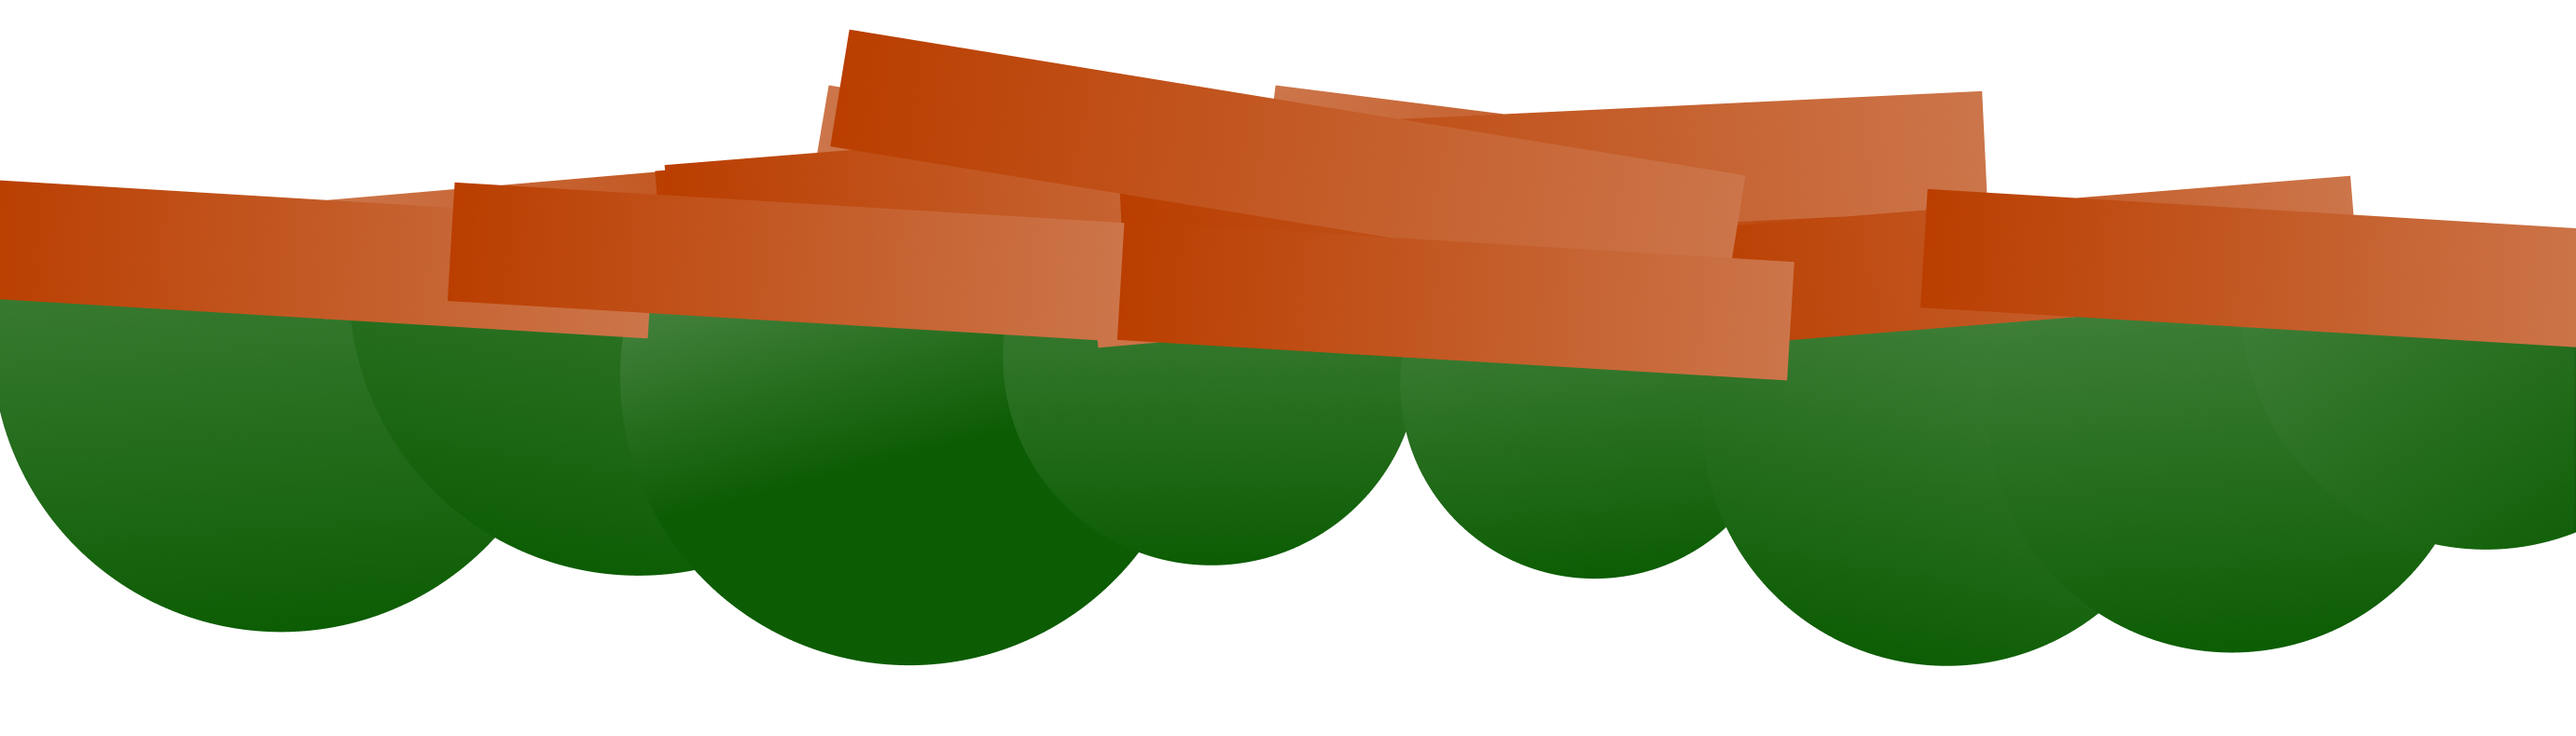
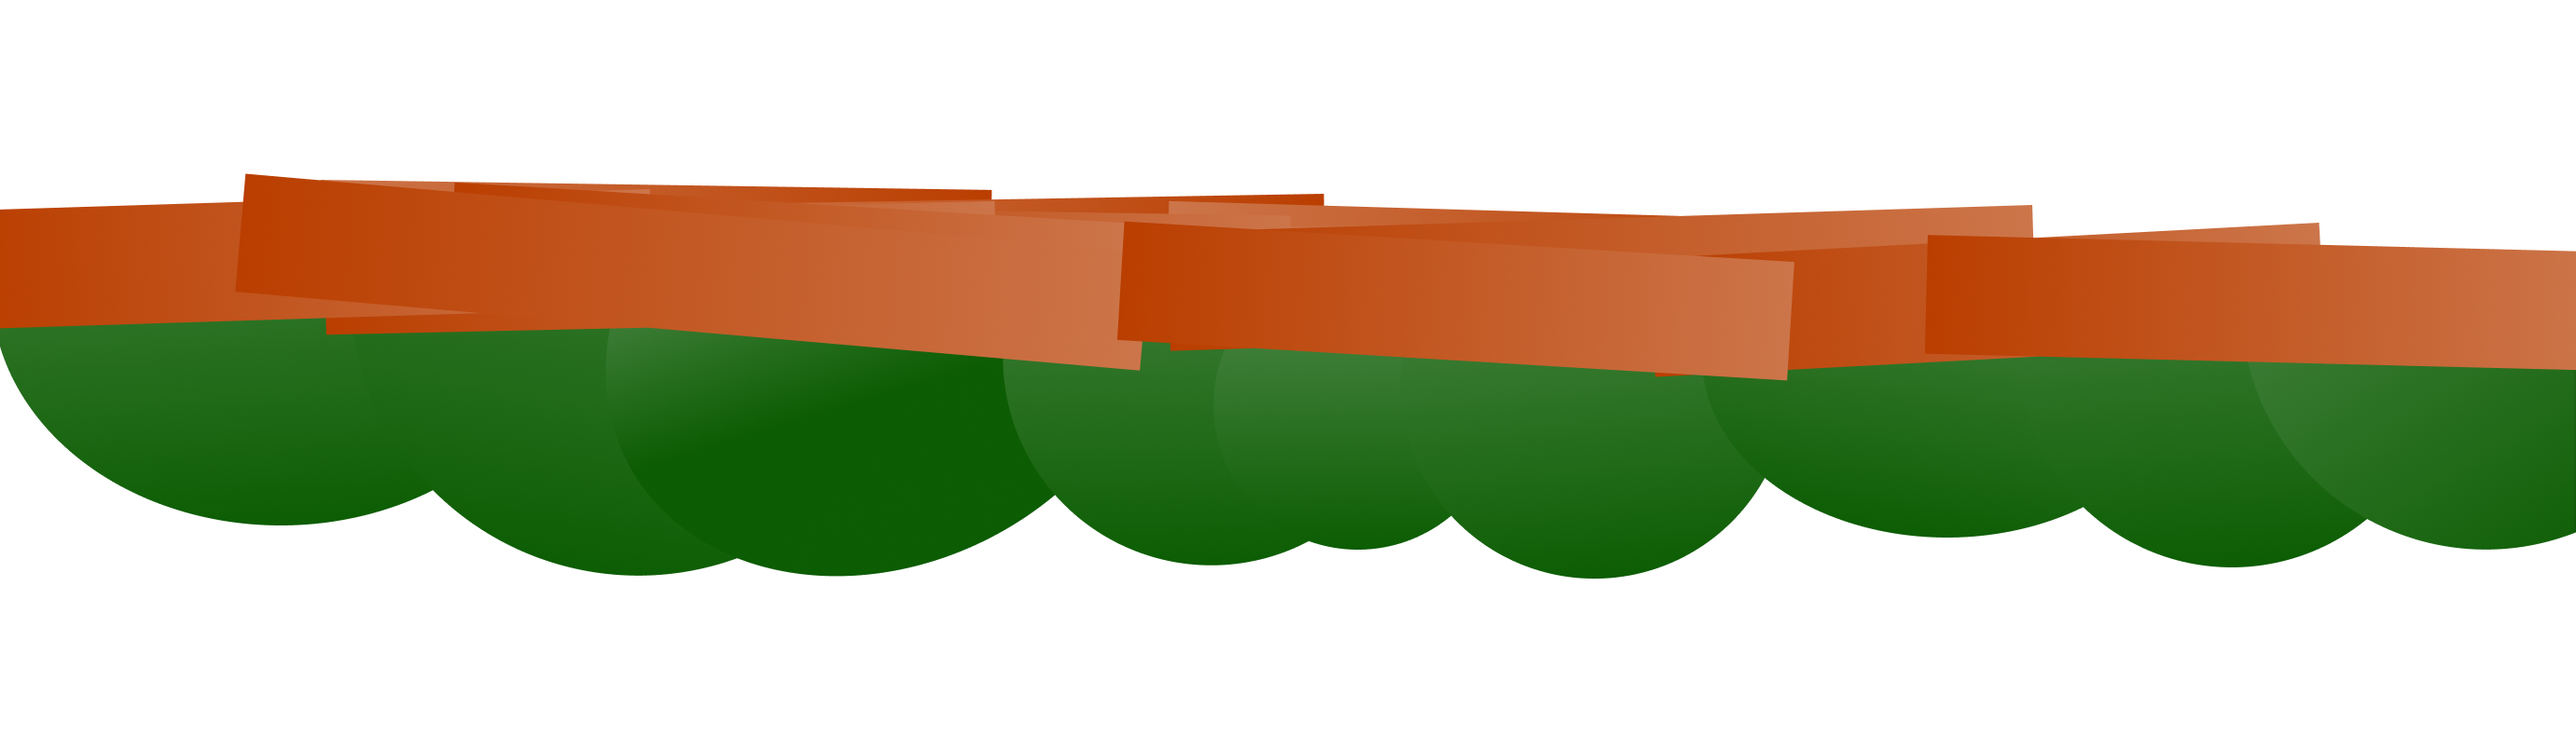
Terre/Verdure

diff --git a/style.css b/style.css
@@ -45,11 +45,6 @@ section{
 
 }
 
-#canvas{
-
-  background-image: url("BackGrounds/vege_bg.jfif");
-}
-
 button {
 
   background: transparent;
@@ -524,10 +519,12 @@ section.ground{
 
   &.n2{
 
-    height: 210px;
+    height: 150px;
+    background: #BD470C;
     img{
 
-      top: -50px;
+      top: -90px;
+      transform: rotate(-1deg);
     }
 
   }
